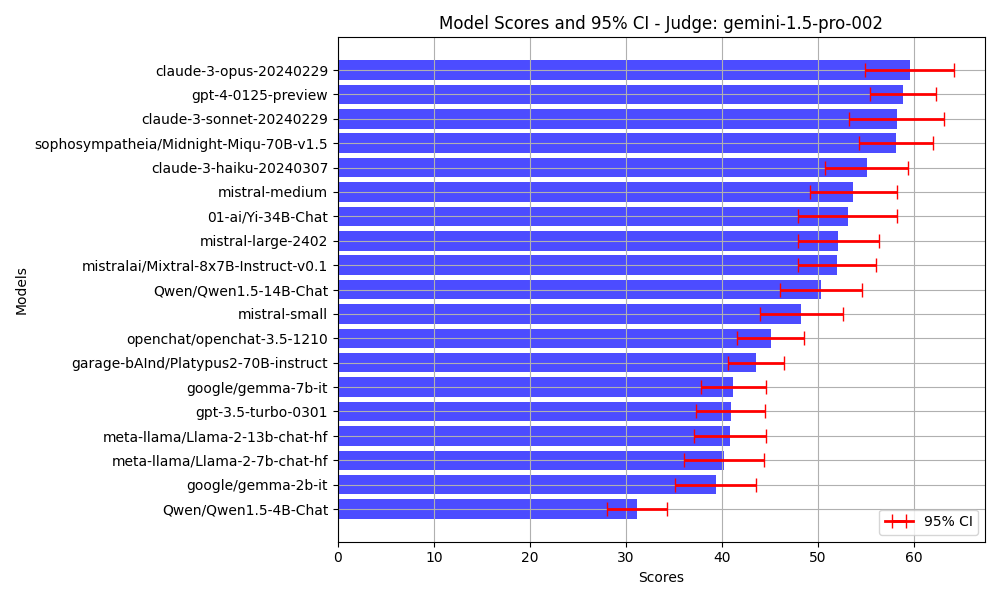
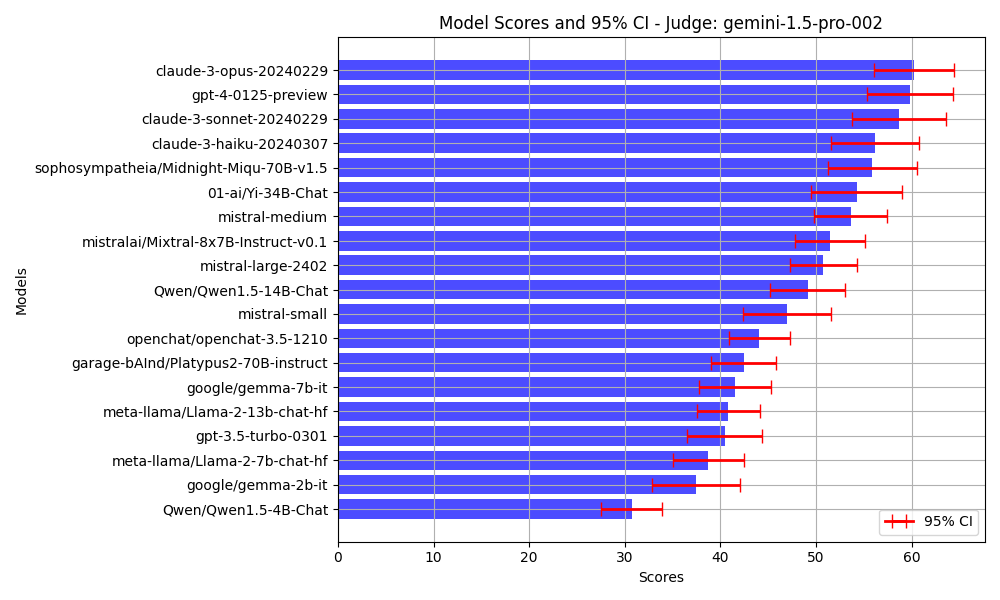
avg gemini score over more iterations

diff --git a/judgemark.js b/judgemark.js
@@ -1076,46 +1076,46 @@ Judgemark 49.52
 # *gemini-1.5-pro-002
 
 Test model scores:
-58.91 gpt-4-0125-preview
-59.59 claude-3-opus-20240229
-58.24 claude-3-sonnet-20240229
-55.1 claude-3-haiku-20240307
-48.3 mistral-small
-53.7 mistral-medium
-52.14 mistral-large-2402
-40.92 gpt-3.5-turbo-0301
-53.11 01-ai/Yi-34B-Chat
-45.11 openchat/openchat-3.5-1210
-43.53 garage-bAInd/Platypus2-70B-instruct
-52.05 mistralai/Mixtral-8x7B-Instruct-v0.1
-50.33 Qwen/Qwen1.5-14B-Chat
-31.19 Qwen/Qwen1.5-4B-Chat
-39.36 google/gemma-2b-it
-41.21 google/gemma-7b-it
-40.22 meta-llama/Llama-2-7b-chat-hf
-40.83 meta-llama/Llama-2-13b-chat-hf
-58.14 sophosympatheia/Midnight-Miqu-70B-v1.5
+59.83 gpt-4-0125-preview
+60.26 claude-3-opus-20240229
+58.66 claude-3-sonnet-20240229
+56.15 claude-3-haiku-20240307
+46.98 mistral-small
+53.62 mistral-medium
+50.76 mistral-large-2402
+40.45 gpt-3.5-turbo-0301
+54.26 01-ai/Yi-34B-Chat
+44.07 openchat/openchat-3.5-1210
+42.45 garage-bAInd/Platypus2-70B-instruct
+51.49 mistralai/Mixtral-8x7B-Instruct-v0.1
+49.12 Qwen/Qwen1.5-14B-Chat
+30.73 Qwen/Qwen1.5-4B-Chat
+37.49 google/gemma-2b-it
+41.49 google/gemma-7b-it
+38.75 meta-llama/Llama-2-7b-chat-hf
+40.84 meta-llama/Llama-2-13b-chat-hf
+55.88 sophosympatheia/Midnight-Miqu-70B-v1.5
 
 Stats:
-ANOVA f-statistic 17.262777296419706
-ANOVA p-value 2.692559575920475e-37
+ANOVA f-statistic 18.98324733492056
+ANOVA p-value 1.7621647841397139e-40
 Self bias: N/A
 Family bias: N/A
-Avg 95% CI: 8.06
-mean_score 48.53
-range 28.4
-std_dev 8.16
-CV 0.17
-std_dev_top_5 1.72
+Avg 95% CI: 8.02
+mean_score 48.07
+range 29.53
+std_dev 8.55
+CV 0.18
+std_dev_top_5 2.04
 pearson_arena_elo 0.94
-kendall_arena_elo 0.87
-pearson_eq_bench 0.8
-kendall_eq_bench 0.62
-pearson_top_8_arena_elo 0.9
+kendall_arena_elo 0.81
+pearson_eq_bench 0.79
+kendall_eq_bench 0.57
+pearson_top_8_arena_elo 0.93
 kendall_top_8_arena_elo 0.81
-pearson_top_8_eq_bench 0.22
-kendall_top_8_eq_bench -0.05
-Judgemark 60.9
+pearson_top_8_eq_bench 0.47
+kendall_top_8_eq_bench 0.24
+Judgemark 64.74
 Cost: $2.20
 `;
 
